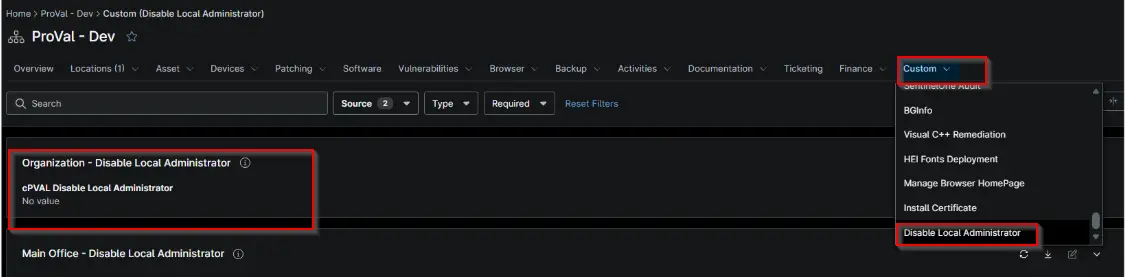
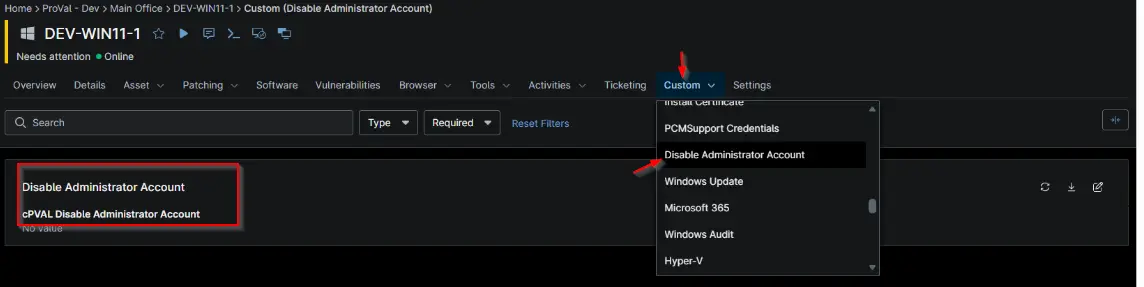
updated

diff --git a/docs/solutions/disable-ladministrator-account-ninjaone.md b/docs/solutions/disable-ladministrator-account-ninjaone.md
@@ -1,10 +1,10 @@
 ---
 id: 'c3553e8f-bacf-4b6c-a53f-87cd615d0260'
 slug: /c3553e8f-bacf-4b6c-a53f-87cd615d0260
-title: 'Disable Local Administrator'
-title_meta: 'Disable Local Administrator'
-keywords: ['disable', 'local-administrator', 'windows']
-description: 'This solution disables the built-in local Administrator account on Windows devices when the account is enabled and the organization setting requires it to be disabled.'
+title: 'Disable Administrator Account'
+title_meta: 'Disable Administrator Account'
+keywords: ['disable', 'administrator', 'windows']
+description: 'This solution disables the built-in Administrator account on Windows devices when the account is enabled and the organization setting requires it to be disabled.'
 tags: ['accounts', 'auditing', 'windows']
 draft: false
 unlisted: false
@@ -14,9 +14,9 @@ last_update:
 
 ## Purpose
 
-This solution is designed to identify and disable the built-in local Administrator account on supported Windows devices through NinjaOne automation. It uses an organization-level custom field to determine whether the Administrator account should be disabled and applies the appropriate automation based on whether the device is a Windows Server or Windows Workstation.
+This solution is designed to identify and disable the built-in Administrator account on supported Windows devices through NinjaOne automation. It uses an organization-level custom field to determine whether the Administrator account should be disabled and applies the appropriate automation based on whether the device is a Windows Server or Windows Workstation.
 
-The solution helps maintain a consistent security configuration across managed Windows devices by automatically remediating devices where the local Administrator account is enabled and the organization setting requires it to be disabled.
+The solution helps maintain a consistent security configuration across managed Windows devices by automatically remediating devices where the Administrator account is enabled and the organization setting requires it to be disabled.
 
 ## Associated Content
 
@@ -24,20 +24,20 @@ The solution helps maintain a consistent security configuration across managed W
 
 | Content                                                                         | Type         | Function                                                                                                                                   |
 | ------------------------------------------------------------------------------- | ------------ | ------------------------------------------------------------------------------------------------------------------------------------------ |
-| [cPVAL Disable Local Administrator](/docs/17eca8b1-0d43-4a31-8a1a-c0686f399372) | Custom Field | Controls whether the local Administrator account should be disabled for the organization and is used during compound condition evaluation. |
+| [cPVAL Disable Administrator Account](/docs/17eca8b1-0d43-4a31-8a1a-c0686f399372) | Custom Field | Controls whether the Administrator account should be disabled for the organization and is used during compound condition evaluation. |
 
 **Automation**
 
 | Content                                                                                       | Type   | Function                                                                                                     |
 | --------------------------------------------------------------------------------------------- | ------ | ------------------------------------------------------------------------------------------------------------ |
-| [Disable Local Administrator Account](/docs/f28fbe84-8c67-4442-afb9-e06d7e9ec15b) | Script | Disables the built-in local Administrator account on Windows devices when the solution requirements are met. |
+| [Disable Administrator Account](/docs/f28fbe84-8c67-4442-afb9-e06d7e9ec15b) | Script | Disables the built-in Administrator account on Windows devices when the solution requirements are met. |
 
 **Compound Conditions**
 
 | Content                                                                                  | Type               | Function                                                                                                                              |
 | ---------------------------------------------------------------------------------------- | ------------------ | ------------------------------------------------------------------------------------------------------------------------------------- |
-| [Disable Local Administrator - Servers](/docs/b28a134a-2ae3-4de5-b444-932c1367008b)      | Compound Condition | Targets supported Windows Server devices where the organization setting requires the local Administrator account to be disabled.      |
-| [Disable Local Administrator - Workstations](/docs/bb1e5b89-09c4-4c74-806e-e1b10a3a09b0) | Compound Condition | Targets supported Windows Workstation devices where the organization setting requires the local Administrator account to be disabled. |
+| [Disable Administrator Account - Servers](/docs/b28a134a-2ae3-4de5-b444-932c1367008b)      | Compound Condition | Targets supported Windows Server devices where the organization setting requires the Administrator account to be disabled.      |
+| [Disable Administrator Account - Workstations](/docs/bb1e5b89-09c4-4c74-806e-e1b10a3a09b0) | Compound Condition | Targets supported Windows Workstation devices where the organization setting requires the Administrator account to be disabled. |
 
 ## Implementation
 
@@ -45,15 +45,15 @@ The solution helps maintain a consistent security configuration across managed W
 
 Create the following custom field in NinjaOne:
 
-* [cPVAL Disable Local Administrator](/docs/17eca8b1-0d43-4a31-8a1a-c0686f399372)
+* [cPVAL Disable Administrator Account](/docs/17eca8b1-0d43-4a31-8a1a-c0686f399372)
 
-Configure the custom field at the organization level to indicate whether the local Administrator account should be disabled.
+Configure the custom field at the organization level to indicate whether the Administrator account should be disabled.
 
 **Step 2: Import the Automation Script**
 
 Import the following automation script:
 
-* [Disable Local Administrator Account](/docs/f28fbe84-8c67-4442-afb9-e06d7e9ec15b)
+* [Disable Administrator Account](/docs/f28fbe84-8c67-4442-afb9-e06d7e9ec15b)
 
 Verify that the automation script is available and configured to run with the required permissions on the target Windows devices.
 
@@ -61,14 +61,14 @@ Verify that the automation script is available and configured to run with the re
 
 Configure the following compound conditions and associate them with the appropriate device policies:
 
-* [Disable Local Administrator - Servers](/docs/b28a134a-2ae3-4de5-b444-932c1367008b)
-* [Disable Local Administrator - Workstations](/docs/bb1e5b89-09c4-4c74-806e-e1b10a3a09b0)
+* [Disable Administrator Account - Servers](/docs/b28a134a-2ae3-4de5-b444-932c1367008b)
+* [Disable Administrator Account- Workstations](/docs/bb1e5b89-09c4-4c74-806e-e1b10a3a09b0)
 
 The compound conditions evaluate the organization-level custom field and device type to determine whether the automation should be executed.
 
 **Step 4: Configure the Organization Setting**
 
-For each organization where the local Administrator account should be disabled, enable the appropriate value in the **cPVAL Disable Local Administrator** custom field.
+For each organization where the Administrator account should be disabled, enable the appropriate value in the **cPVAL Disable Administrator Account** custom field.
 
 ## FAQ
 
@@ -78,15 +78,15 @@ A: This solution is designed for supported Windows Server and Windows Workstatio
 
 **Q: How does the solution determine whether the Administrator account should be disabled?**
 
-A: The solution uses the **cPVAL Disable Local Administrator** custom field to determine whether the organization has enabled the requirement to disable the local Administrator account.
+A: The solution uses the **cPVAL Disable Administrator Account** custom field to determine whether the organization has enabled the requirement to disable the Administrator account.
 
-**Q: What happens if the local Administrator account is already disabled?**
+**Q: What happens if the Administrator account is already disabled?**
 
 A: The automation will not need to perform the disable action when the account is already disabled.
 
-**Q: Does this solution disable other local administrator accounts?**
+**Q: Does this solution disable other administrator accounts?**
 
-A: No. The solution is intended to disable the built-in Windows local **Administrator** account and does not target other local user accounts unless specifically configured by the automation.
+A: No. The solution is intended to disable the built-in Windows **Administrator** account and does not target other user accounts unless specifically configured by the automation.
 
 **Q: Does the solution apply to both servers and workstations?**
 
@@ -94,7 +94,7 @@ A: Yes. Separate compound conditions are provided for Windows Servers and Window
 
 **Q: Can the solution be enabled for selected organizations only?**
 
-A: Yes. The organization-level **cPVAL Disable Local Administrator** custom field controls whether the solution should apply to an organization.
+A: Yes. The organization-level **cPVAL Disable Administrator Account** custom field controls whether the solution should apply to an organization.
 
 **Q: Is manual configuration required on each device?**
 

diff --git a/docs/ninjaone/compound-conditions/disable-administrator-account-workstations.md b/docs/ninjaone/compound-conditions/disable-administrator-account-workstations.md
@@ -1,0 +1,39 @@
+---
+id: 'bb1e5b89-09c4-4c74-806e-e1b10a3a09b0'
+slug: /bb1e5b89-09c4-4c74-806e-e1b10a3a09b0
+title: 'Disable Administrator Account - Workstations'
+title_meta: 'Disable Administrator Account - Workstations'
+keywords: ['disable', 'administrator', 'windows']
+description: 'This compound condition is used to run the automation to disable the Administrator account when it is found to be enabled and the organization has enabled this setting.'
+tags: ['accounts', 'auditing', 'windows']
+draft: false
+unlisted: false
+last_update:
+  date: 2026-10-01
+---
+
+## Summary
+
+This compound condition is used to run the automation on workstations to disable the Administrator account when it is found to be enabled and the organization has enabled this setting.
+
+## Details
+
+- **Name:** `Disable Administrator Account - Workstations`
+- **Description:** `This compound condition is used to run the automation to disable the Administrator account when it is found to be enabled and the organization has enabled this setting.`
+- **Recommended Agent Policies:** `Windows Workstation Policy`
+
+## Dependencies
+
+- [Solution - Disable Administrator Account - NinjaOne](/docs/c3553e8f-bacf-4b6c-a53f-87cd615d0260)
+- [Custom Field - cPVAL Disable Administrator Account](/docs/17eca8b1-0d43-4a31-8a1a-c0686f399372)
+- [Script - Disable Administrator Account](/docs/f28fbe84-8c67-4442-afb9-e06d7e9ec15b)
+
+## Compound Condition Creation 
+
+- [Compound Condition Configuration](https://github.com/ProVal-Tech/ninjarmm/blob/main/compound-conditions/disable-administrator-account-workstations.toml)
+
+## Changelog
+
+### 2026-10-01
+
+- Initial Version of the document.

diff --git a/docs/ninjaone/custom-fields/cpval-disable-administrator-account.md b/docs/ninjaone/custom-fields/cpval-disable-administrator-account.md
@@ -1,0 +1,41 @@
+---
+id: '17eca8b1-0d43-4a31-8a1a-c0686f399372'
+slug: /17eca8b1-0d43-4a31-8a1a-c0686f399372
+title: 'cPVAL Disable Administrator Account'
+title_meta: 'cPVAL Disable Administrator Account'
+keywords: ['disable', 'administrator', 'windows']
+description: 'Used within the compound condition to determine whether the Disable Administrator solution needs to be run on the Organization.'
+tags: ['accounts', 'auditing', 'windows']
+draft: false
+unlisted: false
+last_update:
+  date: 2026-10-01
+---
+
+## Summary
+
+Used within the compound condition to determine whether the Disable Administrator solution needs to be run on the Organization.
+
+## Details
+
+| Label | Field Name | Example | Definition Scope | Type | Required | Default Value | Dropdown Options | Editable | Custom Field Tab |
+| ----- | ---------- | ------- | ---------------- | ---- | -------- | ------------- | ---------------- | -------- | ---------------- |
+| `cPVAL Disable Administrator Account` | `cpvalDisableAdministratorAccount` | -- | `Device`, `Organization`, `Location` | `Drop-Down` | False | --- | `Disabled`, `Windows Workstation`, `Windows Servers`, `Windows` | True | `Disable Administrator Account` |
+
+## Dependencies
+
+- [Solution - Disable Administrator Account](/docs/c3553e8f-bacf-4b6c-a53f-87cd615d0260)
+
+## Custom Field Creation
+
+- [Custom Field Configuration](https://github.com/ProVal-Tech/ninjarmm/blob/main/custom-fields/cpval-disable-administrator-account.toml)
+
+## Sample Screenshot
+
+![Image1](../../../static/img/docs/17eca8b1-0d43-4a31-8a1a-c0686f399372/custom-field.webp)
+
+## Changelog
+
+### 2026-10-01
+
+- Initial Version of the document.

diff --git a/docs/ninjaone/compound-conditions/disable-administrator-account-server.md b/docs/ninjaone/compound-conditions/disable-administrator-account-server.md
@@ -1,0 +1,39 @@
+---
+id: 'b28a134a-2ae3-4de5-b444-932c1367008b'
+slug: /b28a134a-2ae3-4de5-b444-932c1367008b
+title: 'Disable Administrator Account - Servers'
+title_meta: 'Disable Administrator Account - Servers'
+keywords: ['disable', 'administrator', 'windows']
+description: 'This compound condition is used to run the automation to disable the Administrator account when it is found to be enabled and the organization has enabled this setting.'
+tags: ['accounts', 'auditing', 'windows']
+draft: false
+unlisted: false
+last_update:
+  date: 2026-10-01
+---
+
+## Summary
+
+This compound condition is used to run the automation to disable the Administrator account when it is found to be enabled and the organization has enabled this setting.
+
+## Details
+
+- **Name:** `Disable Administrator Account - Servers`
+- **Description:** `This compound condition is used to run the automation to disable the Administrator account when it is found to be enabled and the organization has enabled this setting.`
+- **Recommended Agent Policies:** `Windows Server Policy`
+
+## Dependencies
+
+- [Solution - Disable Administrator Account - NinjaOne](/docs/c3553e8f-bacf-4b6c-a53f-87cd615d0260)
+- [Custom Field - cPVAL Disable Administrator Account](/docs/17eca8b1-0d43-4a31-8a1a-c0686f399372)
+- [Script - Disable Administrator Account](/docs/f28fbe84-8c67-4442-afb9-e06d7e9ec15b)
+
+## Compound Condition Creation 
+
+- [Compound Condition Configuration](https://github.com/ProVal-Tech/ninjarmm/blob/main/compound-conditions/disable-administrator-account-servers.toml)
+
+## Changelog
+
+### 2026-10-01
+
+- Initial Version of the document.

diff --git a/docs/ninjaone/automations/disable-administrator-account.md b/docs/ninjaone/automations/disable-administrator-account.md
@@ -1,0 +1,39 @@
+---
+id: 'f28fbe84-8c67-4442-afb9-e06d7e9ec15b'
+slug: /f28fbe84-8c67-4442-afb9-e06d7e9ec15b
+title: 'Disable Administrator Account'
+title_meta: 'Disable Administrator Account'
+keywords: ['disable', 'administrator', 'windows']
+description: 'Checks the status of the built-in Administrator account and disables it when enabled to help maintain the security of Windows devices.'
+tags: ['accounts', 'auditing', 'windows']
+draft: false
+unlisted: false
+last_update:
+  date: 2026-10-01
+---
+
+## Overview
+
+Checks whether the built-in Administrator account is enabled and disables it if necessary, ensuring the account remains inactive unless it is specifically required for administrative use.
+
+## Dependencies
+
+- [Solution - Disable Administrator Account](/docs/c3553e8f-bacf-4b6c-a53f-87cd615d0260)
+
+## Sample Run
+
+![Image1](../../../static/img/docs/f28fbe84-8c67-4442-afb9-e06d7e9ec15b/Sample-run.webp)
+
+## Automation Setup/Import
+
+[Automation Configuration](https://github.com/ProVal-Tech/ninjarmm/blob/main/scripts/disable-administrator-account.ps1)
+
+## Output
+
+- Activity Details  
+
+## Changelog
+
+### 2026-10-01
+
+- Initial Version of the document.
